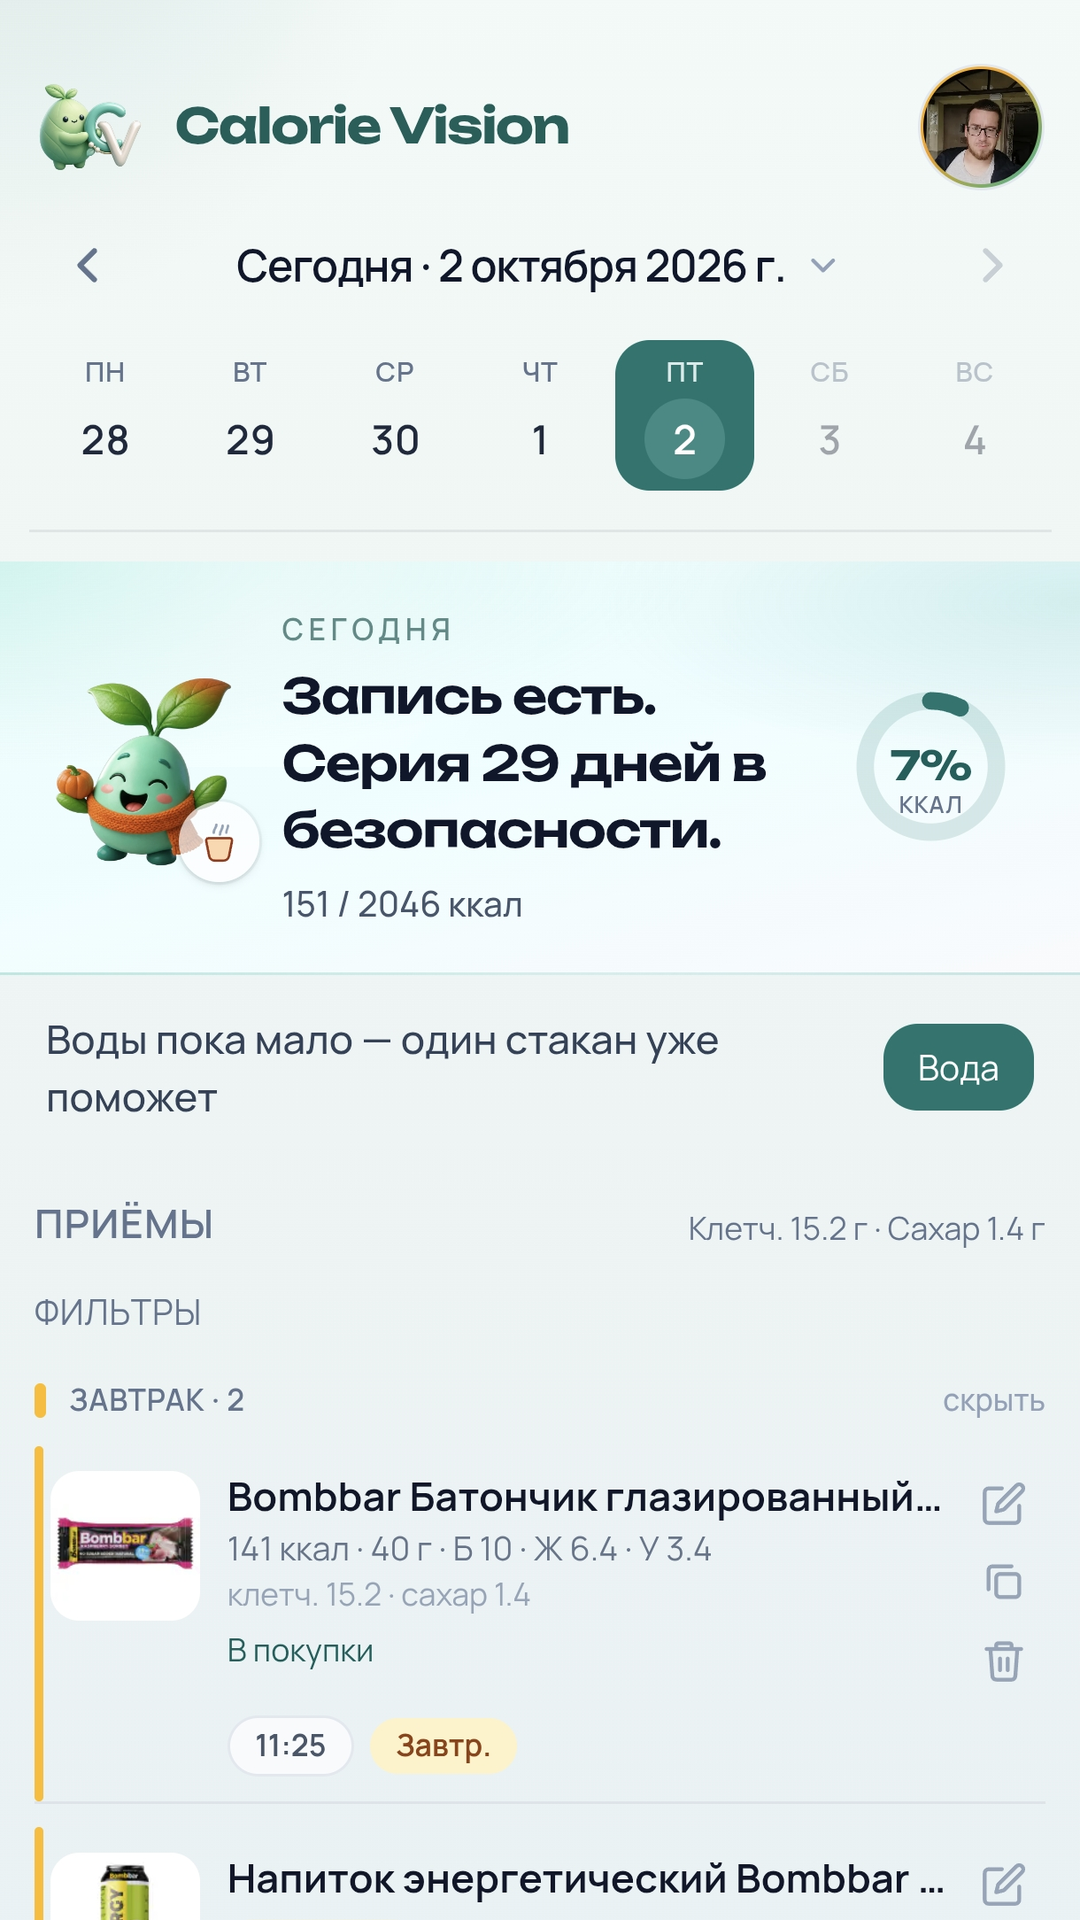
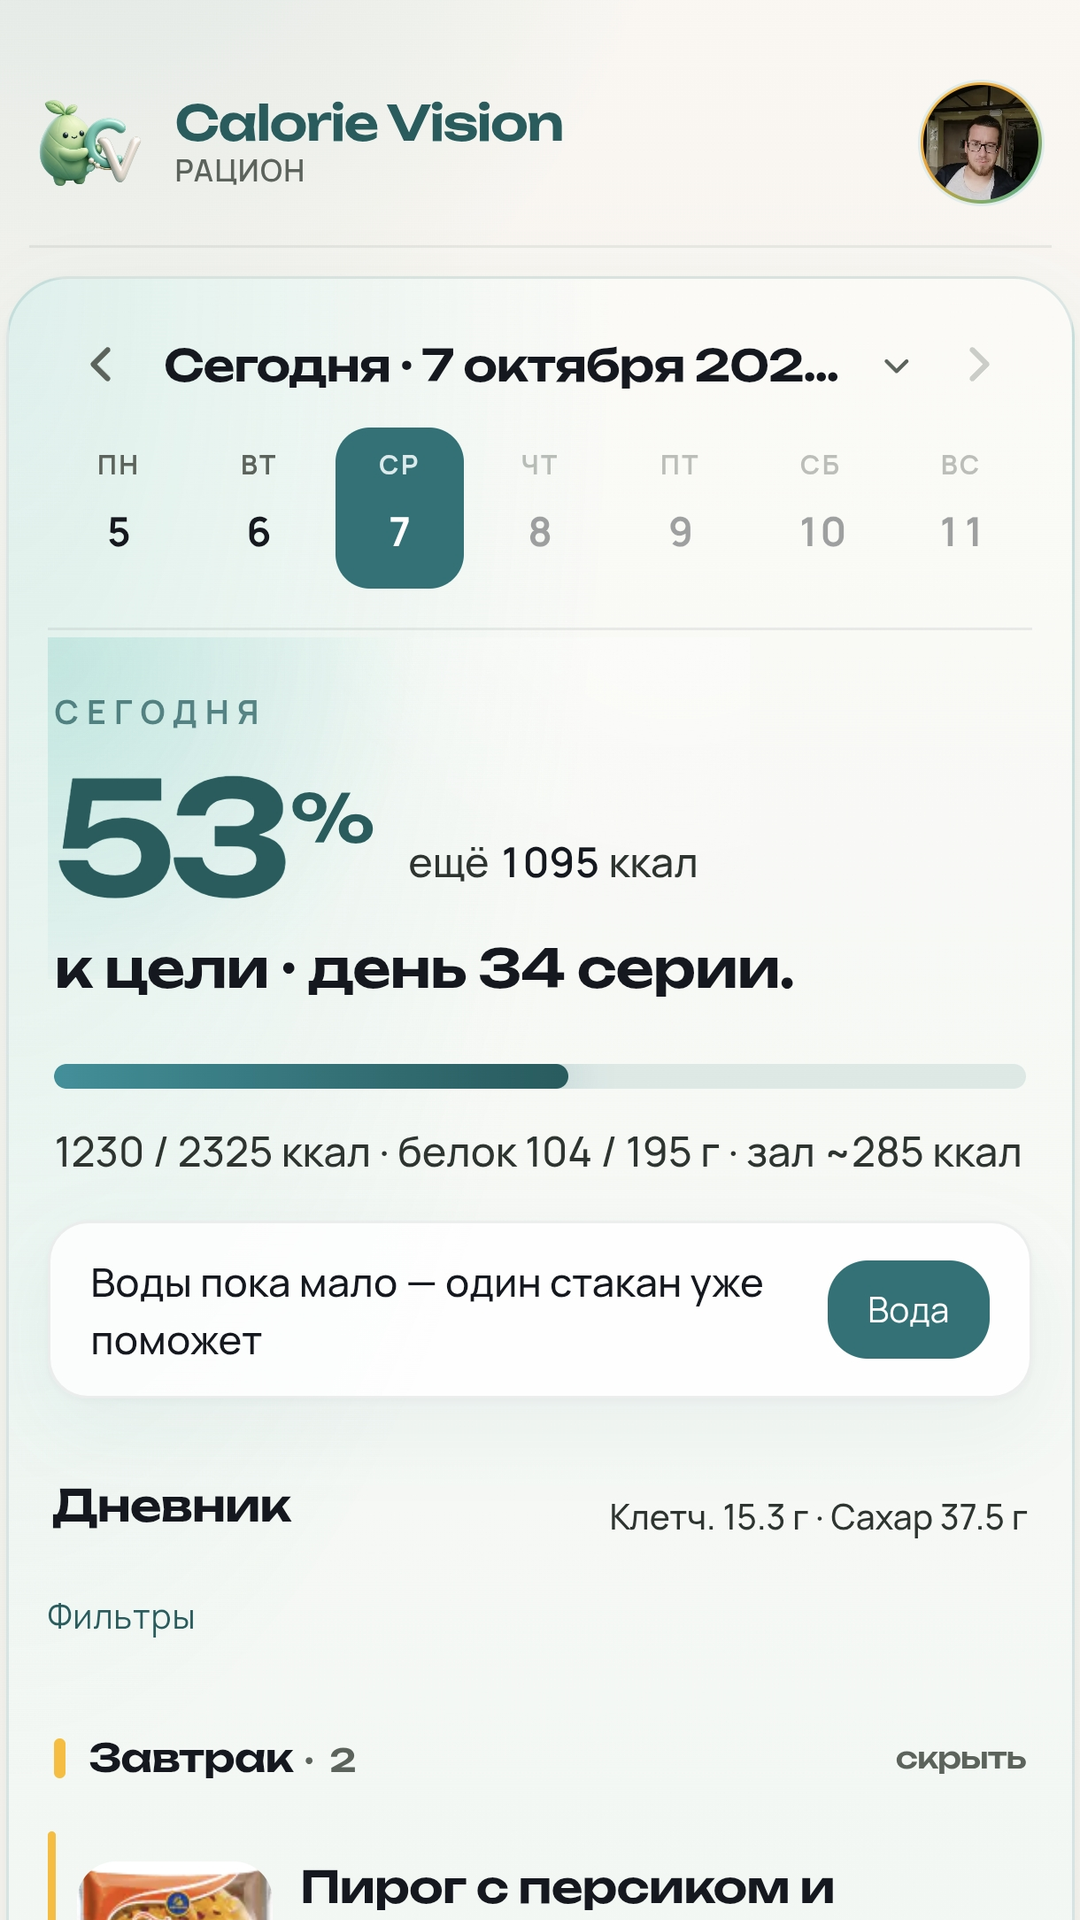
chore(rustore): replace store screenshots with v2.7.4 UI
Archive previous submit/ frames and add six 1080×1920 shots: ration,
gym today, stats, gym week plan, profile goals, profile more.

diff --git a/rustore/screenshots/README.md b/rustore/screenshots/README.md
@@ -6,18 +6,20 @@
 
 | Файл | Содержание |
 |------|------------|
-| `submit/01-ration.png` | **Продукт:** рацион — сцена дня, КБЖУ, вода, приёмы |
-| `submit/02-gym.png` | **Продукт:** зал — хаб «Сегодня \| Ещё», новая тренировка |
-| `submit/03-stats.png` | **Продукт:** стат — инсайт недели, калории по дням, 7/30/90 |
-| `submit/04-add-modes.png` | **Продукт:** «+» — фото / текст / штрихкод / вода / вес / зал |
+| `submit/01-ration.png` | **Продукт:** рацион — сцена дня, КБЖУ, вода, дневник |
+| `submit/02-gym.png` | **Продукт:** зал — «Сегодня», новая тренировка |
+| `submit/03-stats.png` | **Продукт:** стат — итоги недели, калории по дням, 7/30/90 |
+| `submit/04-gym-plan.png` | **Продукт:** зал — план на неделю / шаблоны |
+| `submit/05-profile.png` | **Продукт:** профиль — цели и аккаунт |
+| `submit/06-profile-more.png` | **Продукт:** профиль — нутриенты, экспорт, вес, зал |
 
-В Консоль: **≥3**, загружайте **01–04** по порядку.
+В Консоль: **≥3**, загружайте **01–06** по порядку.
 
 Иконка: `../icon-512-store.png` (512×512, без прозрачности).
 
 ## Источник
 
-Кадры с устройства (v2.6.6), cover под 1080×1920 (без серых боковых полей).  
+Кадры с устройства (v2.7.4), cover под 1080×1920 (без серых боковых полей).  
 Status bar и watermark версии обрезаны сверху.
 
 ## Архив

diff --git a/rustore/listing.ru.md b/rustore/listing.ru.md
@@ -123,12 +123,14 @@ splash и камера. Без сети — фирменная заглушка,
 
 | # | Смысл | Файл |
 |---|--------|------|
-| 1 | Рацион: сцена дня, КБЖУ, приёмы | `submit/01-ration.png` |
+| 1 | Рацион: сцена дня, КБЖУ, дневник | `submit/01-ration.png` |
 | 2 | **Зал:** сегодня / новая тренировка | `submit/02-gym.png` |
-| 3 | Статистика: инсайт и калории по дням | `submit/03-stats.png` |
-| 4 | «+»: фото, текст, штрихкод, вес, зал | `submit/04-add-modes.png` |
+| 3 | Статистика: итоги недели, калории по дням | `submit/03-stats.png` |
+| 4 | **Зал:** план на неделю / шаблоны | `submit/04-gym-plan.png` |
+| 5 | Профиль: цели и аккаунт | `submit/05-profile.png` |
+| 6 | Профиль: нутриенты, экспорт, вес | `submit/06-profile-more.png` |
 
-Готовые файлы в `rustore/screenshots/submit/`. В Консоль загружайте **01–04** по порядку.
+Готовые файлы в `rustore/screenshots/submit/`. В Консоль загружайте **01–06** по порядку.
 
 ---
 
